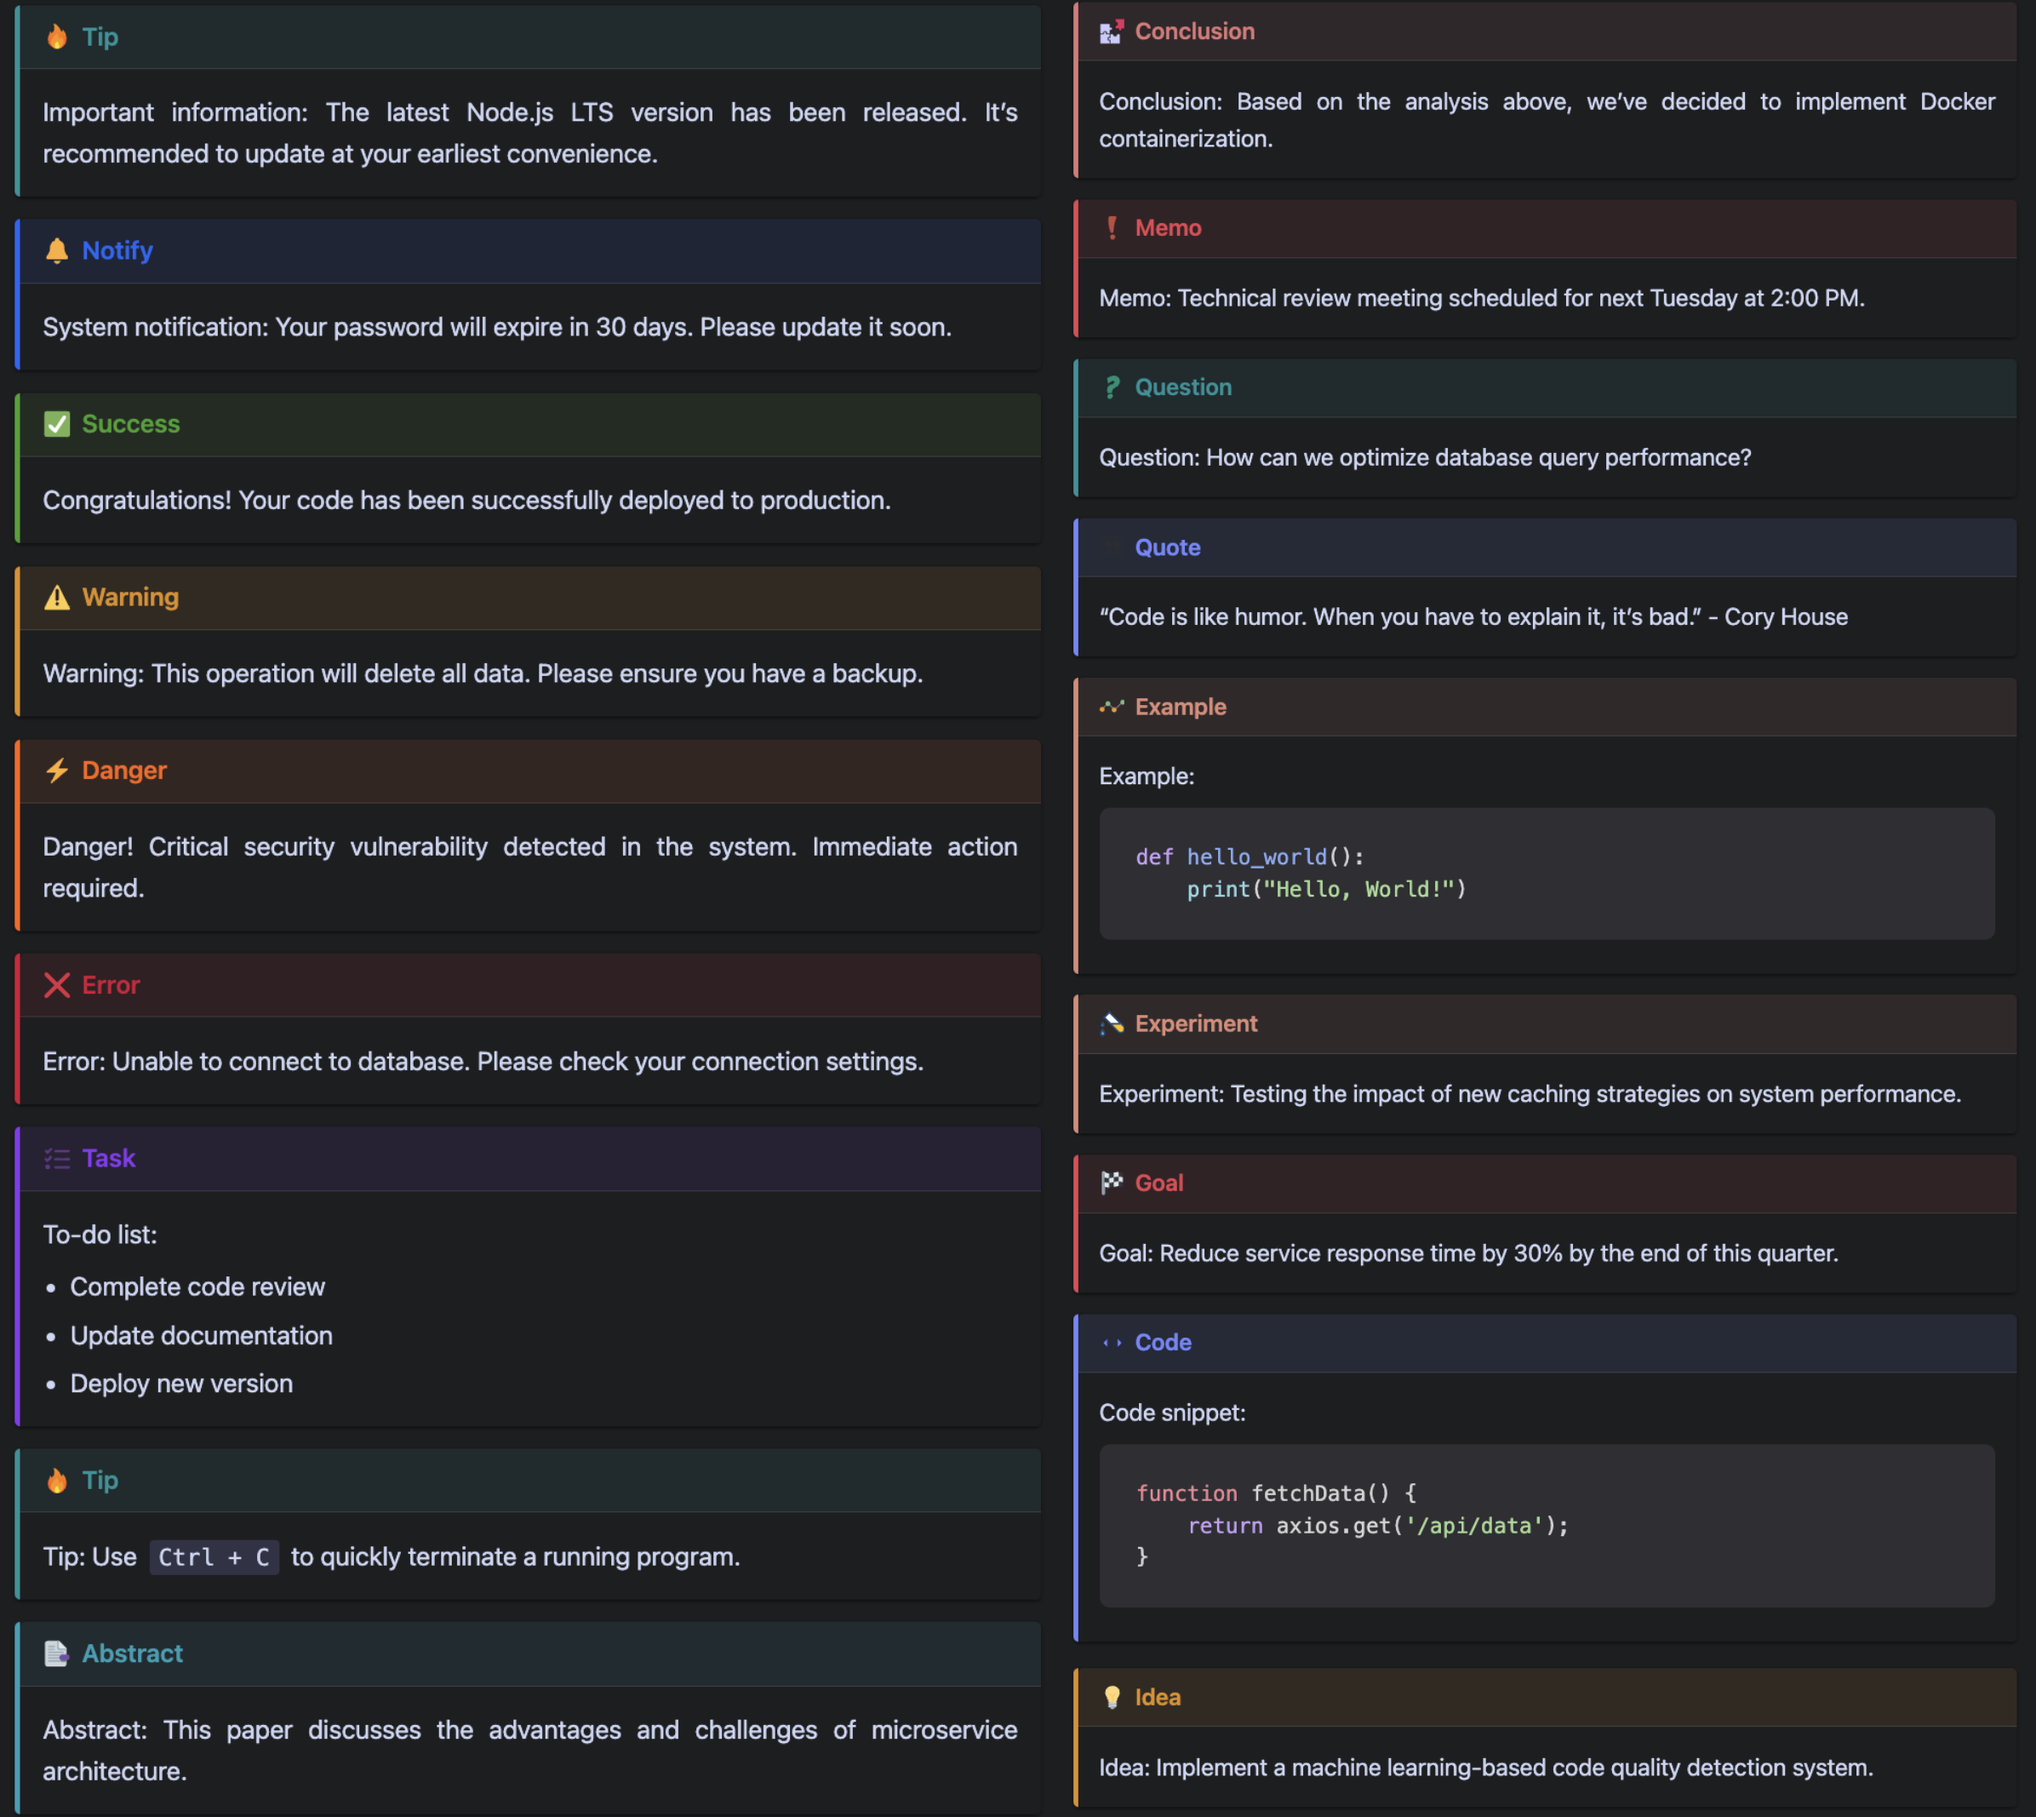
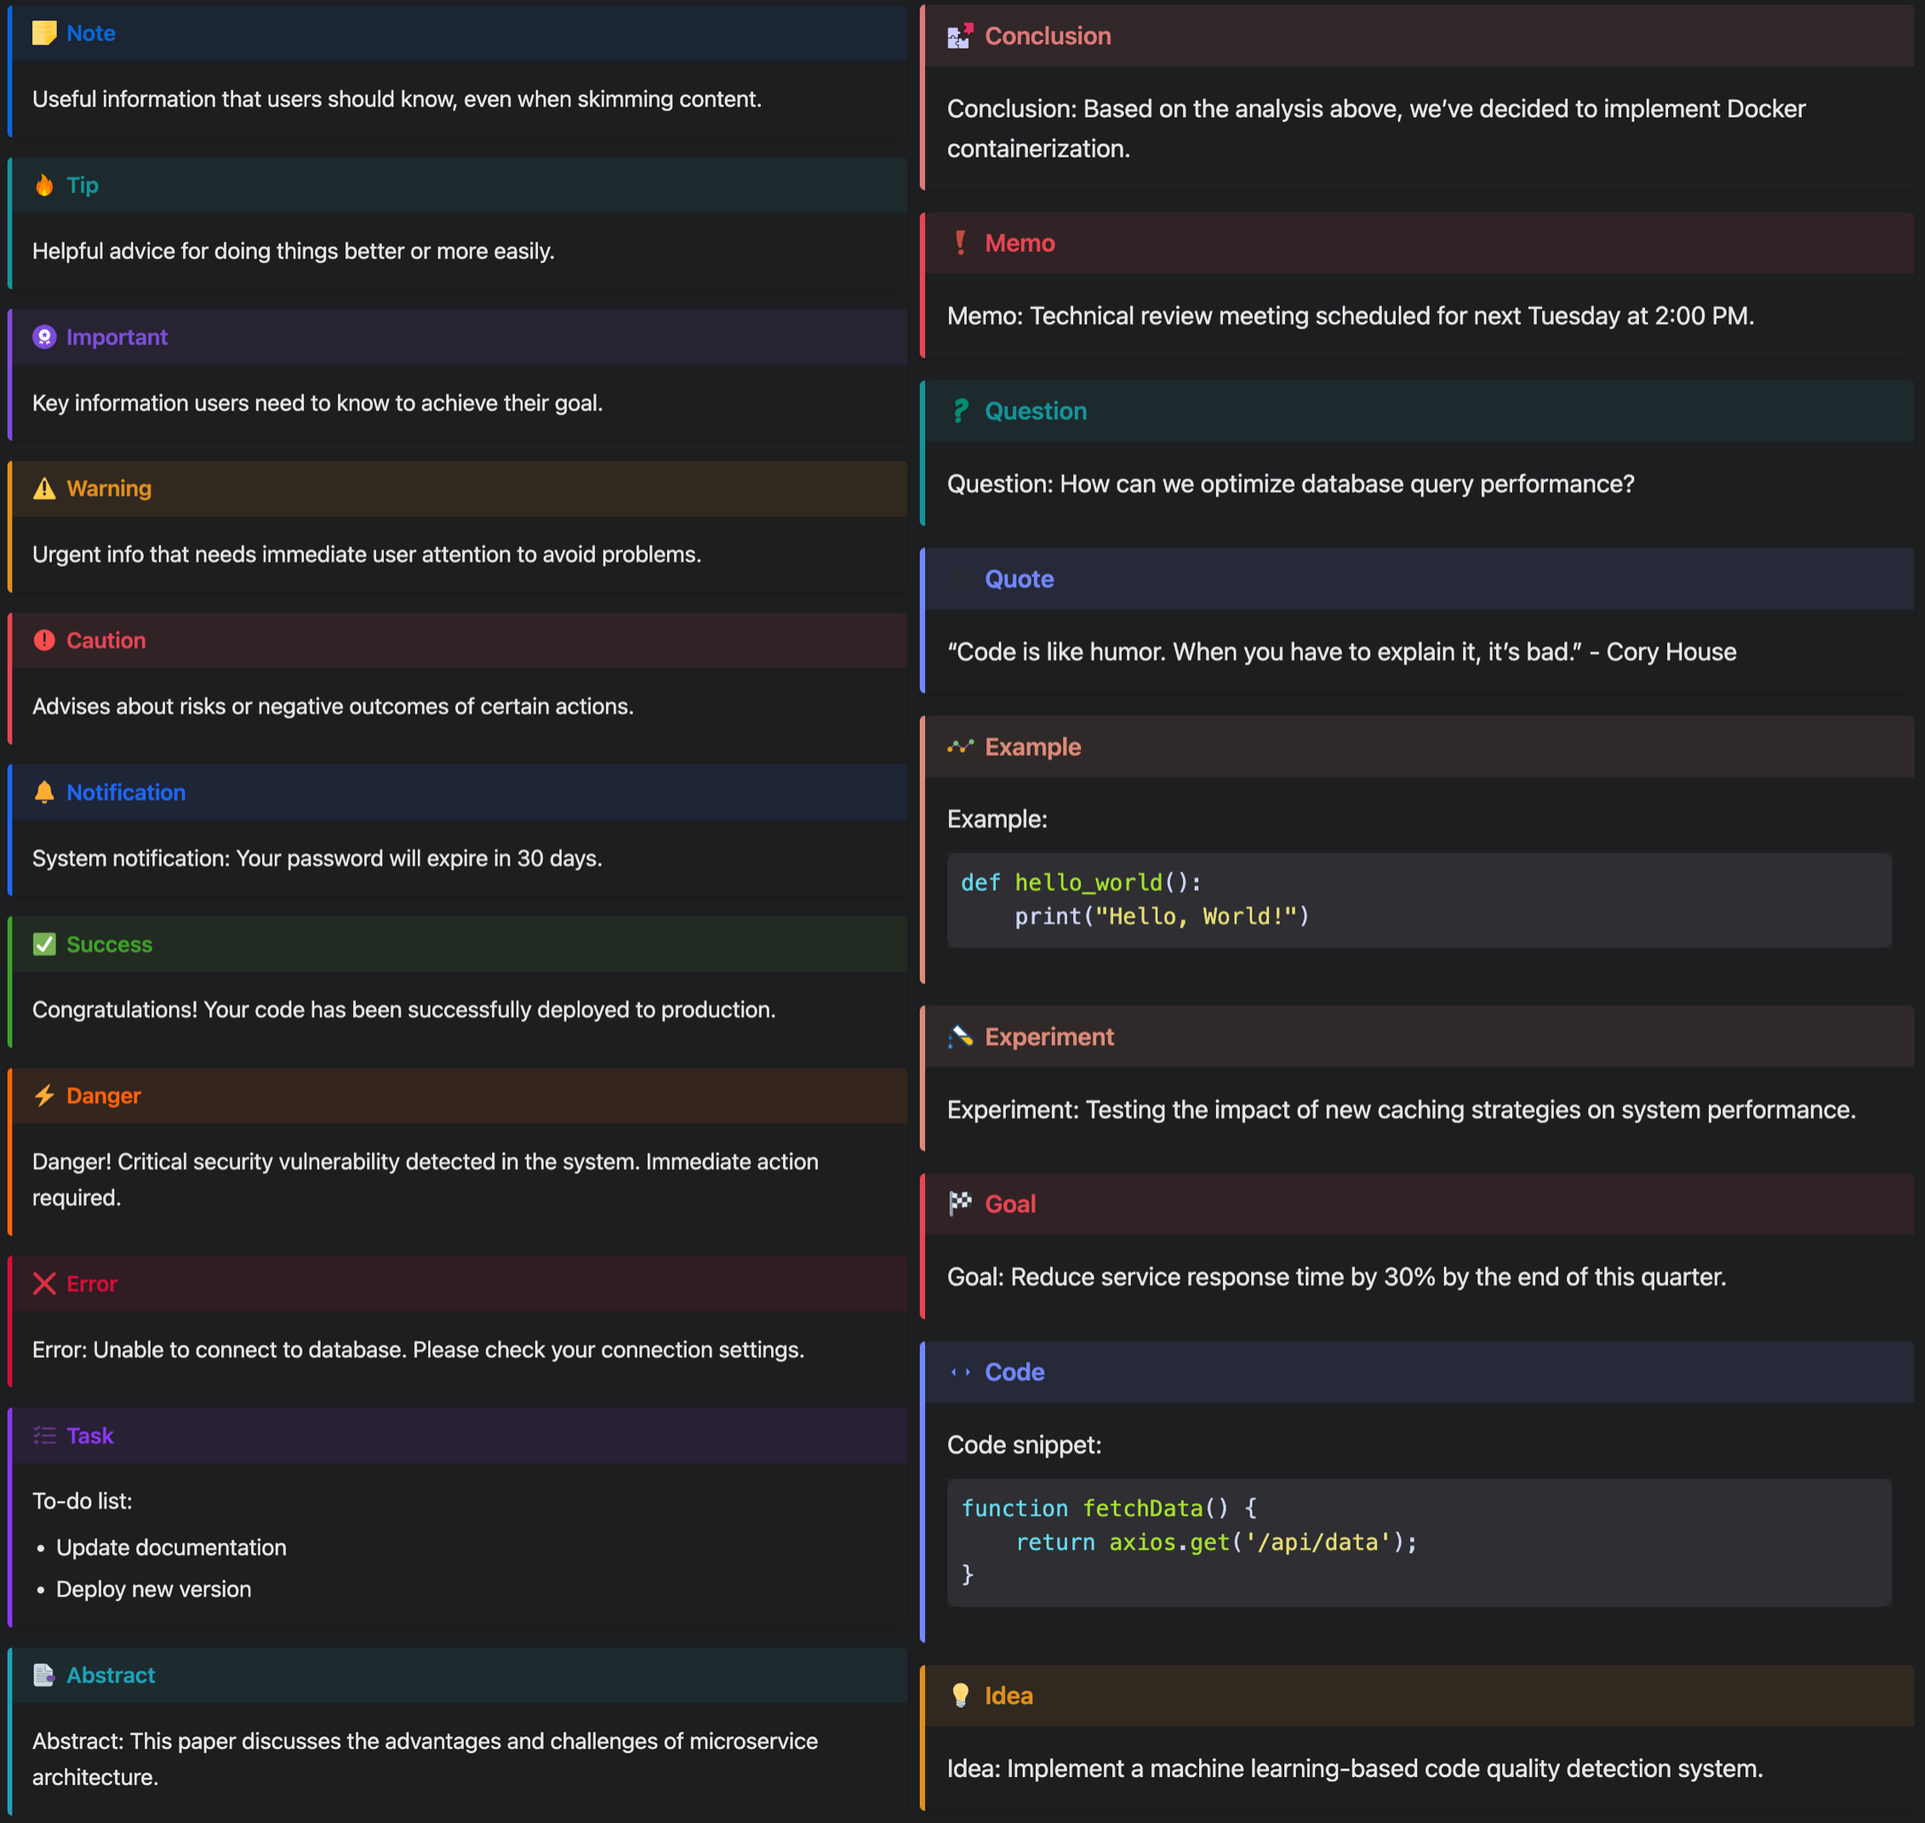
feat: internationalize and support GitHub alerts

diff --git a/layouts/_default/_markup/render-blockquote-alert.html b/layouts/_default/_markup/render-blockquote-alert.html
@@ -1,4 +1,4 @@
-{{/* layouts/_default/_markup/render-blockquote.html */}}
+{{/* layouts/_default/_markup/render-blockquote-alert.html */}}
 {{- if not ($.Page.Scratch.Get "notice-style-loaded-flag") -}}
     {{ $notice := resources.Get "css/notice.css" | minify | fingerprint }}
     <link rel="stylesheet" href="{{ $notice.RelPermalink }}" integrity="{{ $notice.Data.Integrity }}">
@@ -7,11 +7,18 @@
 
 {{ $type := "" }}
 {{ $title := "" }}
+{{ $content := "" }}
 
 {{/* Check if this is an alert blockquote */}}
 {{ if eq .Type "alert" }}
-    {{ $type = lower .AlertType }}
+    {{ $type = .AlertType }}
     {{ $title = .AlertTitle }}
+    {{ $content = .Text }}
+{{ end }}
+
+{{/* Fallback to note if type is not supported */}}
+{{ if not (templates.Exists (printf "partials/icons/%s.svg" $type)) }}
+    {{ $type = "note" }}
 {{ end }}
 
 {{ if $type }}
@@ -21,12 +28,20 @@
         {{ with $title }}
             {{ . }}
         {{ else }}
-            {{ title $type }}
+            {{/* Check if translation exists */}}
+            {{ if T $type | eq $type }}
+                {{/* If no translation found, capitalize the type */}}
+                {{ title $type }}
+            {{ else }}
+                {{ T $type }}
+            {{ end }}
         {{ end }}
     </div>
-    <div class="notice-content">
-        {{ .Text }}
-    </div>
+    {{ if ne $content "<p>" }}
+        <div class="notice-content">
+            {{ $content }}
+        </div>
+    {{ end }}
 </div>
 {{ else }}
 <blockquote>

diff --git a/assets/css/notice.css b/assets/css/notice.css
@@ -280,3 +280,33 @@ body.dark .notice-content blockquote {
     background: rgba(223, 142, 29, 0.1);
     color: #df8e1d;
 }
+
+/* Note */
+.notice.note {
+    background: transparent;
+    border-left: 4px solid #0966D8;  
+}
+.notice.note .notice-header {
+    background: rgba(9, 102, 216, 0.1);
+    color: #0966D8;
+}
+
+/* Important */
+.notice.important {
+    background: transparent;
+    border-left: 4px solid #7D4DDA;
+}
+.notice.important .notice-header {
+    background: rgba(125, 77, 218, 0.1);
+    color: #7D4DDA;
+}
+
+/* Caution */
+.notice.caution {
+    background: transparent;
+    border-left: 4px solid #e64553;
+}
+.notice.caution .notice-header {
+    background: rgba(230, 69, 83, 0.1);
+    color: #e64553;
+}

diff --git a/README.md b/README.md
@@ -1,16 +1,40 @@
 # hugo-admonitions
 
-Simple admonitions for hugo.
+A lightweight Hugo module that adds beautiful and customizable admonition blocks to your content.
 
 Inspire from [mdbook-admonish](https://tommilligan.github.io/mdbook-admonish/)
 
+## Table of Contents
+- [hugo-admonitions](#hugo-admonitions)
+  - [Table of Contents](#table-of-contents)
+  - [Features ✨](#features-)
+  - [Overview of all admonitions](#overview-of-all-admonitions)
+    - [Light Mode](#light-mode)
+    - [Dark Mode](#dark-mode)
+    - [Header Only Mode](#header-only-mode)
+  - [Installation](#installation)
+    - [Hugo Module](#hugo-module)
+    - [Git Clone](#git-clone)
+  - [Usage](#usage)
+  - [Contributing](#contributing)
+  - [License](#license)
 
 ## Features ✨
 
 - Various beautiful and simple callout available 🎨
-- Dark mode support 🌙
 - Blockquote style 💬
   - Portable Markdown style (GitHub, Obsidian, Typora, etc.) 📝
+  - ```md
+    > [!WARNING]
+    > Warning: This operation will delete all data.
+    ```
+- Dark mode support 🌙
+- Header Only Mode 📑
+- Multi-language support 🌐
+  - English
+  - 简体中文
+  - More languages coming soon...
+
 
 
 ## Overview of all admonitions
@@ -23,7 +47,51 @@ Inspire from [mdbook-admonish](https://tommilligan.github.io/mdbook-admonish/)
 
 ![dark-callout](./dark-callout.png)
 
+### Header Only Mode
+
+![header-only-mode](./header-only-mode.png)
+
 ## Installation
+
+### Hugo Module
+
+1. Install [Go programming language](https://go.dev/doc/install) in your operating system.
+
+2. Intialize your own hugo mod
+
+```shell
+hugo mod init YOUR_OWN_GIT_REPOSITORY
+```
+
+3. Add `hugo-admonitions` in your site's configuration file.
+
+With `hugo.yaml`:
+
+```yaml
+module:
+  imports:
+    - path: github.com/KKKZOZ/hugo-admonitions
+    - path: my-theme
+```
+
+With `hugo.toml`:
+
+```toml
+[module]
+  [[module.imports]]
+    path = "github.com/KKKZOZ/hugo-admonitions"
+  [[module.imports]]
+    path = "my-theme"
+```
+
+
+4. Finally update by running:
+
+```shell
+hugo mod get -u
+```
+
+### Git Clone
 
 1. Inside the folder of your Hugo site, run:
 
@@ -59,10 +127,13 @@ Use the blockquote in this way:
 
 Available callouts:
 
+- `[!NOTE]`
 - `[!TIP]`
+- `[!IMPORTANT]`
+- `[!WARNING]`
+- `[!CAUTION]`
 - `[!NOTIFY]`
 - `[!SUCCESS]`
-- `[!WARNING]`
 - `[!DANGER]`
 - `[!ERROR]`
 - `[!TASK]`
@@ -77,11 +148,45 @@ Available callouts:
 - `[!CODE]`
 - `[!IDEA]`
 
+> [!NOTE]
+> Unsupported callout types will default to `[!NOTE]`
+
 Or you can customize the title by using any of them:
 
 ```markdown
 > [!TIP] Summary
-> This is a summary using the tip theme!
+> This is a summary using the `TIP` callout!
 ```
 
 ![usage-2](./usage-2.png)
+
+```markdown
+> [!IDEA] Summary
+> This is a summary using the `IDEA` callout!
+```
+
+![usage-3](./usage-3.png)
+
+You can choose to use the Header Only Mode!
+
+- Just write a title without any contents
+
+```markdown
+> [!TIP] You can choose to only to show the header!
+
+> [!NOTIFY] System notification: Your password will expire in 30 days
+
+> [!SUCCESS] Congratulations! Your code has been successfully deployed to production
+
+> [!WARNING] Warning: This operation will delete all data. Please ensure you have a backup
+```
+
+![usage-4](./usage-4.png)
+
+## Contributing
+
+Contributions are welcome! Please feel free to submit a Pull Request.
+
+## License
+
+This project is licensed under the MIT License - see the [LICENSE](LICENSE) file for details
